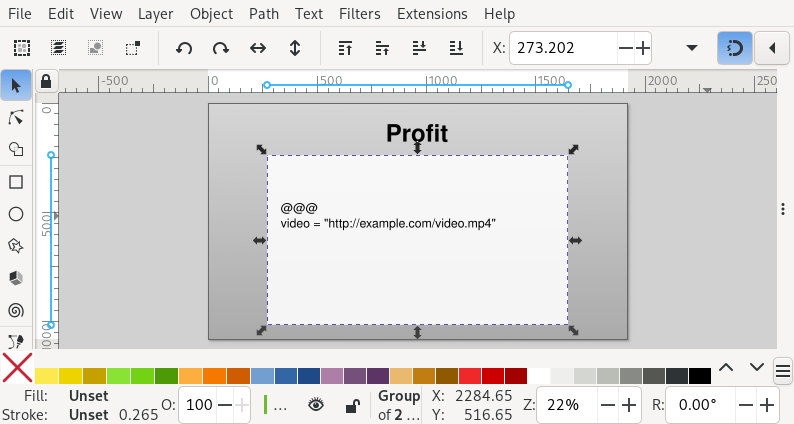
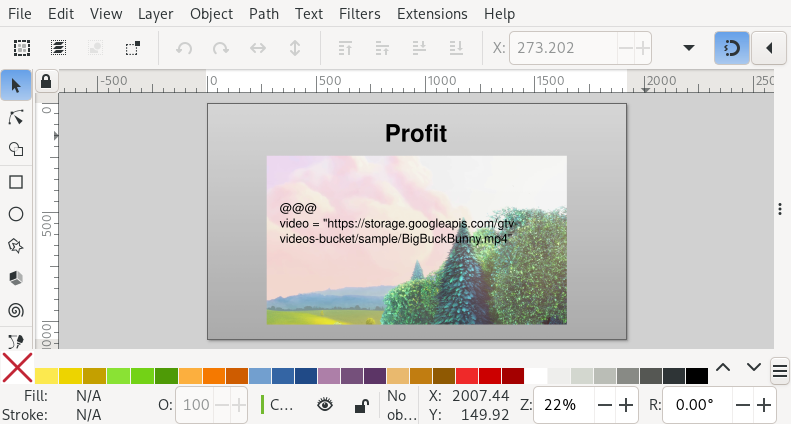
Add video documentation

diff --git a/docs/source/video.rst b/docs/source/video.rst
@@ -2,3 +2,112 @@
 
 Video
 =====
+
+Basic support for adding videos to slides is included in slidie via the
+``video`` :ref:`magic text <magic-text>` value.
+
+.. warning::
+
+    Video support in slidie is relatively limited and comes with far more
+    caveats than other features.
+    
+    The author would feel worse about this if not for the fact that every other
+    presentation tool seems to fumble video handling in their own unique ways.
+
+Embedded videos are only supported in the :ref:`XHTML viewer
+<rendering-xhtml>`. A user-defined placeholder will be output for other
+output formats.
+
+.. note::
+
+    Whilst PDF *technically* includes support for embedding videos, it is not
+    usable in practice. For example, viewer support is extremely limited and
+    often very unreliable. Implementing video embeddings which happen to be
+    compatible with the already-small pool of capable viewers is also
+    horrendous and involves terms like "Flash" and "undocumented Javascript
+    API". In short, I'm afraid the author eventually concluded that they did
+    not want to go there, despite serious efforts to do so.
+
+.. image:: _static/video_inkscape_screenshot.png
+    :alt:
+        A screenshot of a video defined in Inkscape using Slidie's magic text
+        feature.
+
+.. image:: _static/video_viewer_screenshot.png
+    :alt:
+        A screenshot of a video playing on a slide.
+
+
+Inserting a video
+-----------------
+
+To insert a video into a slide, insert a :ref:`placeholder rectangle or image
+<magic-rectangles>` grouped with a :ref:`magic text <magic-text>` box with one
+of the following forms:
+
+::
+
+    @@@
+    video = "<video URL here>"  # Short form
+
+::
+
+    @@@
+    # Long form
+    [video]
+    url = "<video URL here>"
+    start = 0.0  # Start offset, seconds (optional)
+    loop = false  # Repeatedly play video (optional)
+    mute = false  # Mute audio (optional)
+
+Video URLs may point to online resources or be relative URLs to files stored
+adjacently to the rendered XHTML viewer.
+
+.. warning::
+
+    Slidie does not attempt to embed videos within the generated XHTML output
+    due to `browser limitations on data URL lengths being too small for many
+    videos
+    <https://developer.mozilla.org/en-US/docs/Web/HTTP/Basics_of_HTTP/Data_URLs#length_limitations>`_.
+    Care must be taken to ensure that any adjacent video files are stored and
+    distributed together with the generated XHTML output.
+
+.. warning::
+
+    Some browsers refuse to play video from plain HTTP (non-HTTPS) URLs when
+    the viewer is loaded from a ``file://`` URL.
+
+The optional ``start`` time controls the point at which the video will play.
+
+If ``loop`` is true, the video will be restart from the beginning when it
+reaches the end (even if ``start`` is set to a non-zero value).
+
+If ``mute`` is true, audio will not be played back.
+
+.. warning::
+
+    Due to browser autoplay restrictions, videos placed on the first slide in
+    the show will not play until you first move to another slide and then back
+    again. Videos on other slides should play correctly, however.
+
+.. note::
+
+    Slidie currently does not include any mechanism for controling playback:
+    media will always automatically start from the specified offset upon
+    entering the slide and play to completion (or slide exit, if ``loop`` is
+    set).
+
+
+
+.. _slidie-video-stills:
+
+
+Automatic video placeholder generation
+--------------------------------------
+
+The ``slidie-video-stills`` command will automatically extract a still frame
+from embedded videos and set it as the placeholder image for the video.
+
+Usage::
+
+    $ slidie-video-stills path/to/slide.svg
